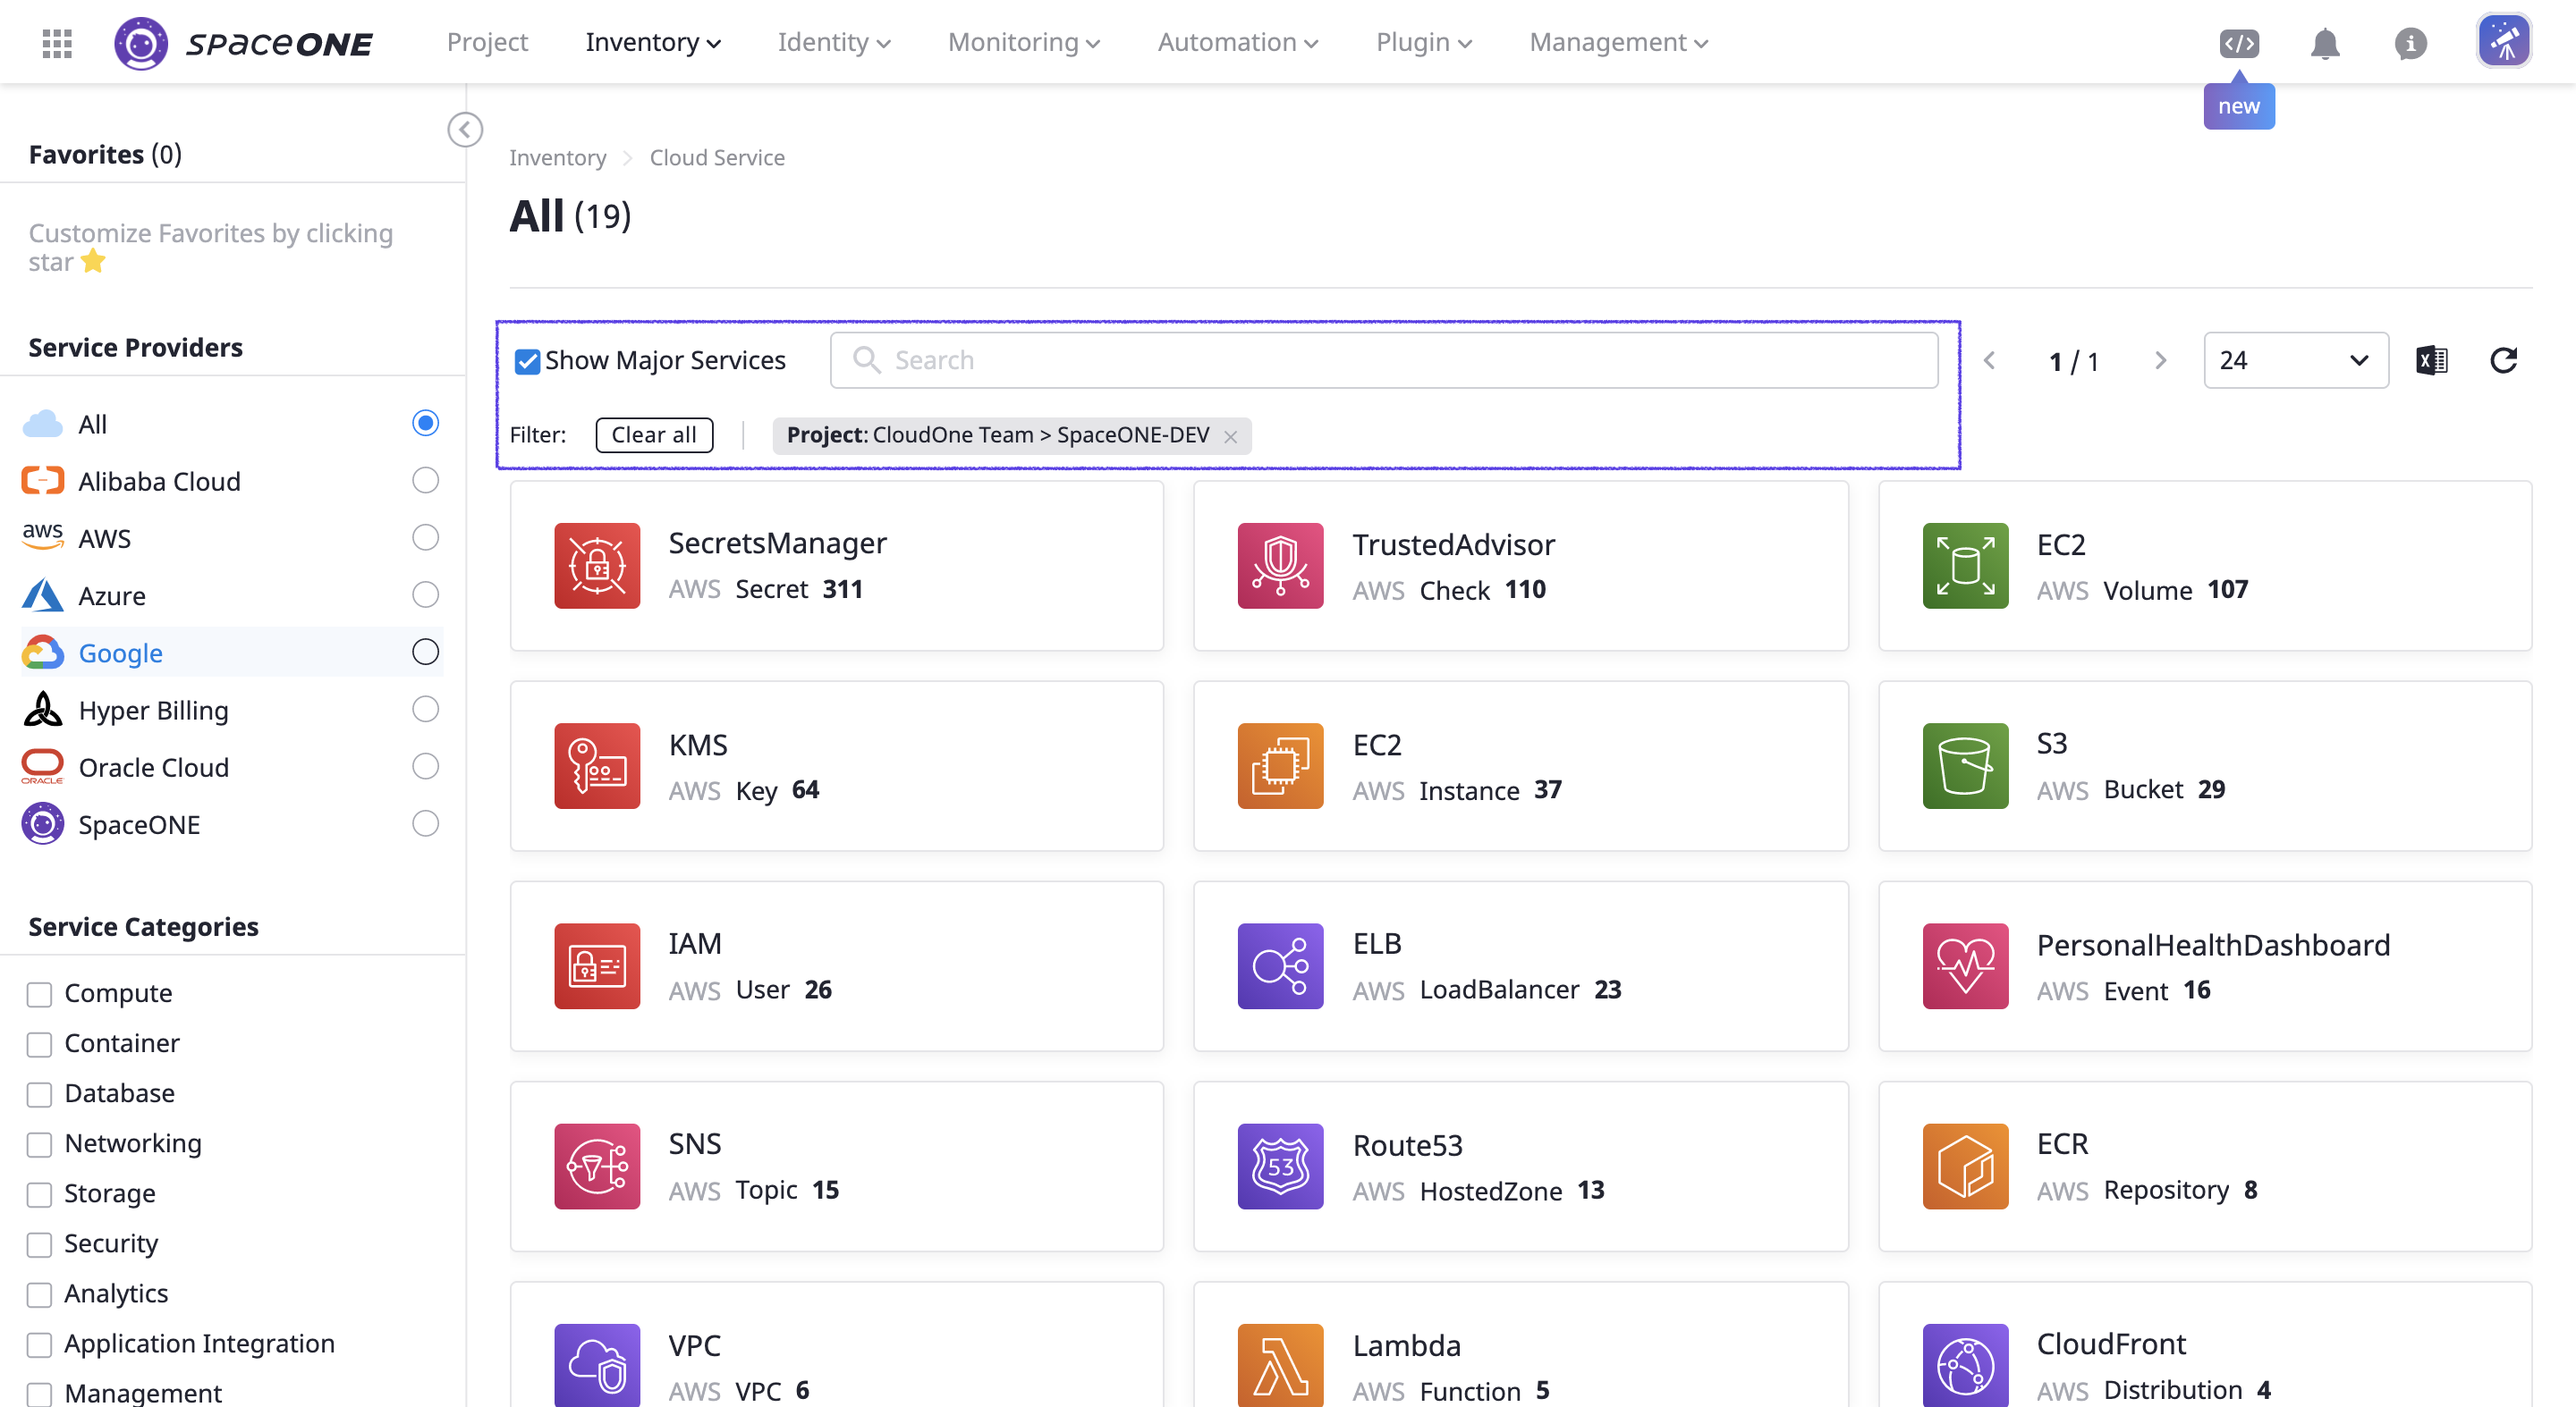
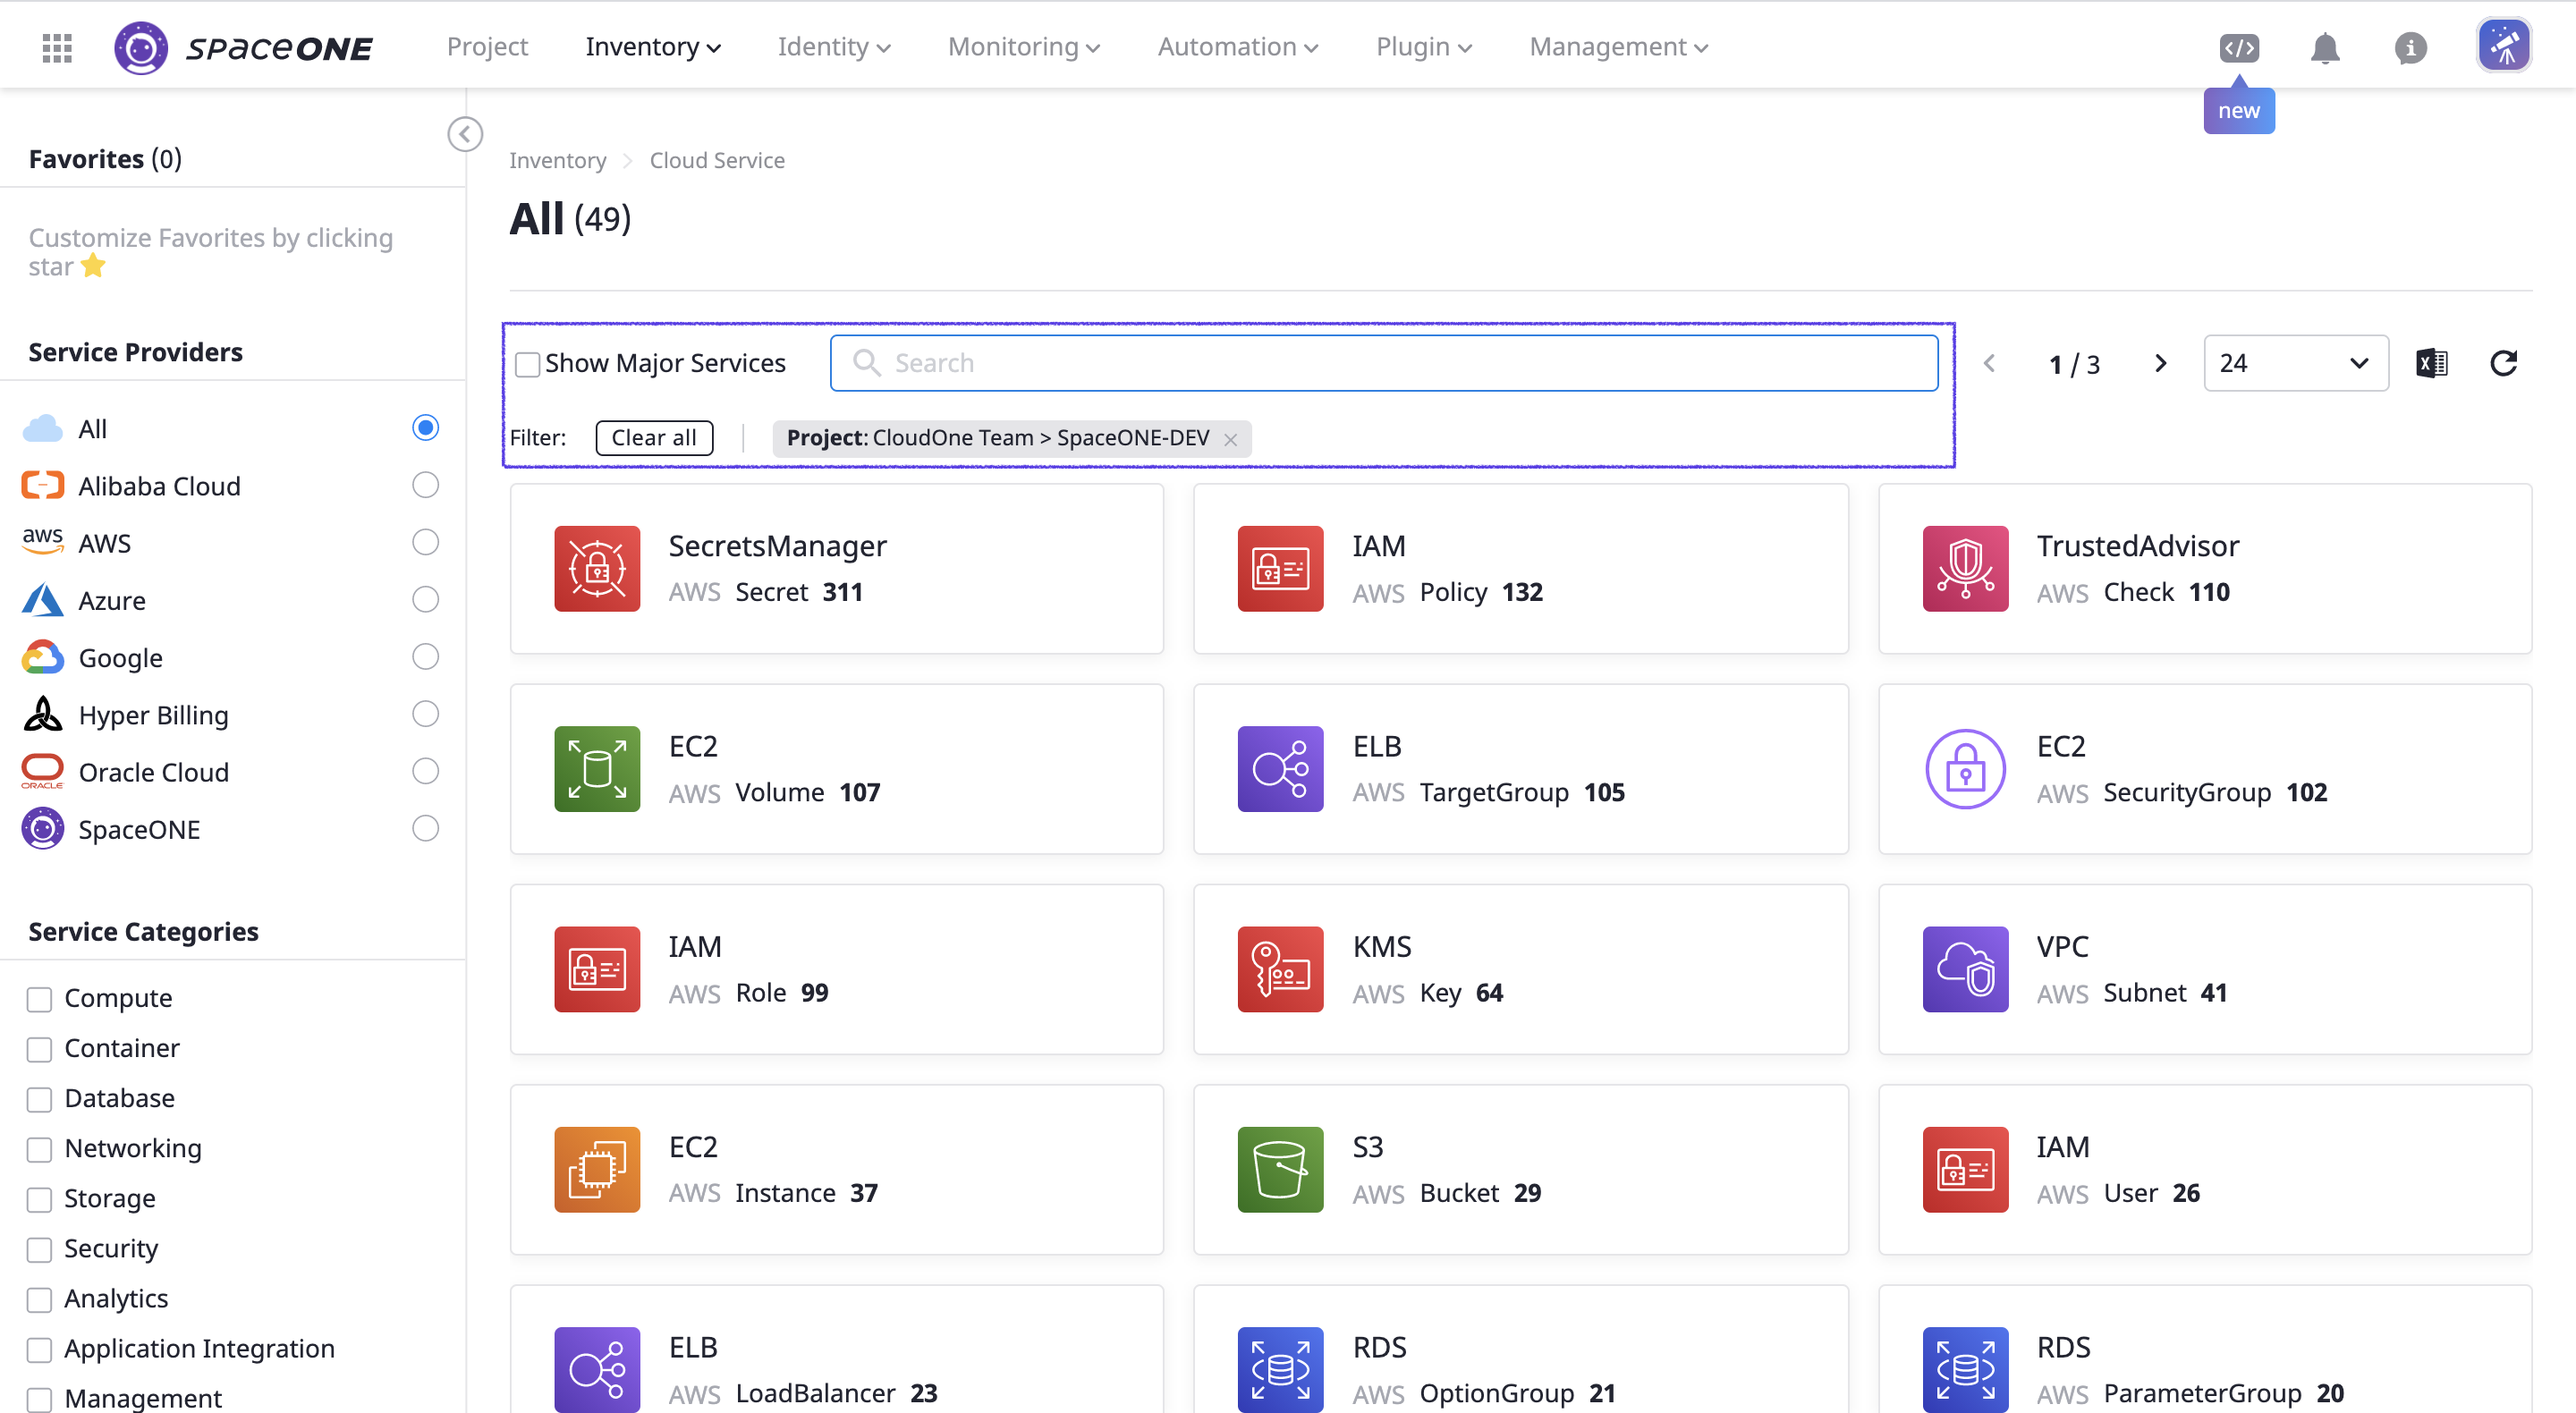
inventory > cloudservice finished

diff --git a/content/en/docs/using_spaceone_console/user_guide/invetory/cloudservice.md b/content/en/docs/using_spaceone_console/user_guide/invetory/cloudservice.md
@@ -32,7 +32,7 @@ You can see favorite lists on the top left, and access it easily from the spaceO
 
 You can check the results through various filterings (Service Provider, Category , Region).
 
-### Service Provider
+### Service Providers
 
 ![](/docs/using_spaceone_console/user_guide/invetory/cloudservice_img/cloudservice_image_03.png)
 
@@ -40,7 +40,7 @@ You can check the results through various filterings (Service Provider, Category
 
 ![](/docs/using_spaceone_console/user_guide/invetory/cloudservice_img/cloudservice_image_04.png)
 
-### Region
+### Regions
 
 ![](/docs/using_spaceone_console/user_guide/invetory/cloudservice_img/cloudservice_image_05.png)
 
@@ -52,13 +52,18 @@ By combination of keywords, resources can be searched by service type/group/proj
 
 ![](/docs/using_spaceone_console/user_guide/invetory/cloudservice_img/cloudservice_image_06.png)
 
+### Show major services
+
+You can check the major services by clicking 'Show Major Services' checkbox.
+![](/docs/using_spaceone_console/user_guide/invetory/cloudservice_img/cloudservice_image_07.png)
+
 ## Cloud Resource List
 
 Total list of collected cloud resources.
 
 User can navigate to detailed page by clicking each cloud resources.
 
-![](/docs/using_spaceone_console/user_guide/invetory/cloudservice_img/cloudservice_image_07.png)
+![](/docs/using_spaceone_console/user_guide/invetory/cloudservice_img/cloudservice_image_08.png)
 
 ### Detailed Status
 
@@ -66,6 +71,6 @@ User can check detailed informations of each cloud resource.
 
 Relative information by each cloud resources can be viewed in one screen.
 
-![](/docs/using_spaceone_console/user_guide/invetory/cloudservice_img/cloudservice_image_08.png)
+![](/docs/using_spaceone_console/user_guide/invetory/cloudservice_img/cloudservice_image_09.png)
 
 
